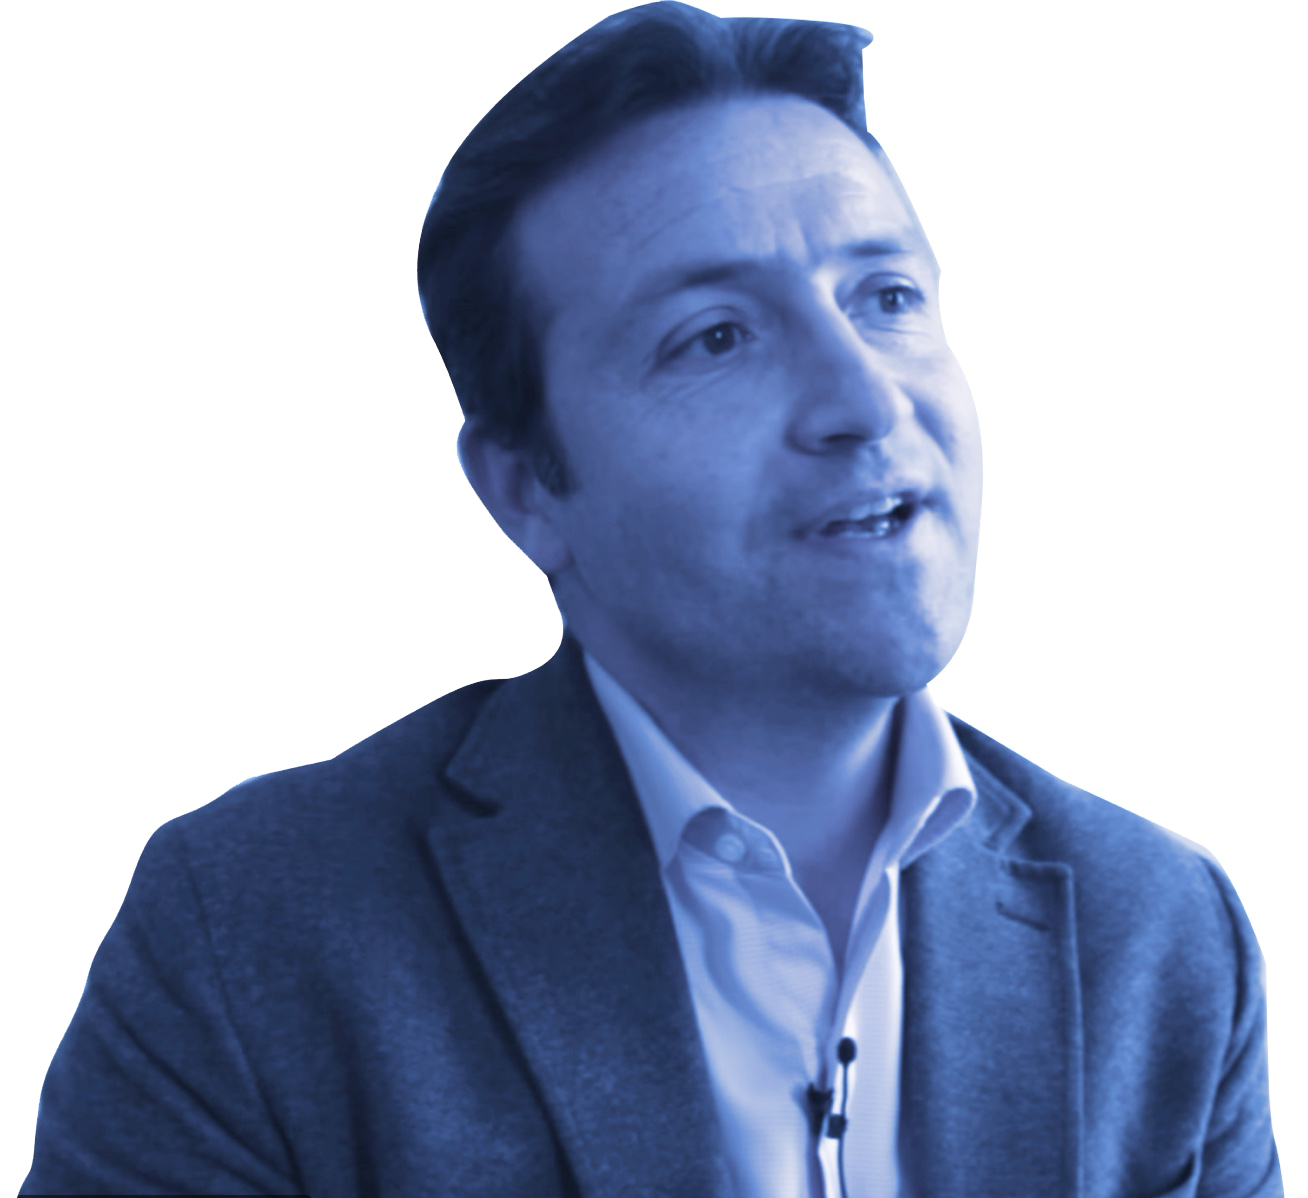
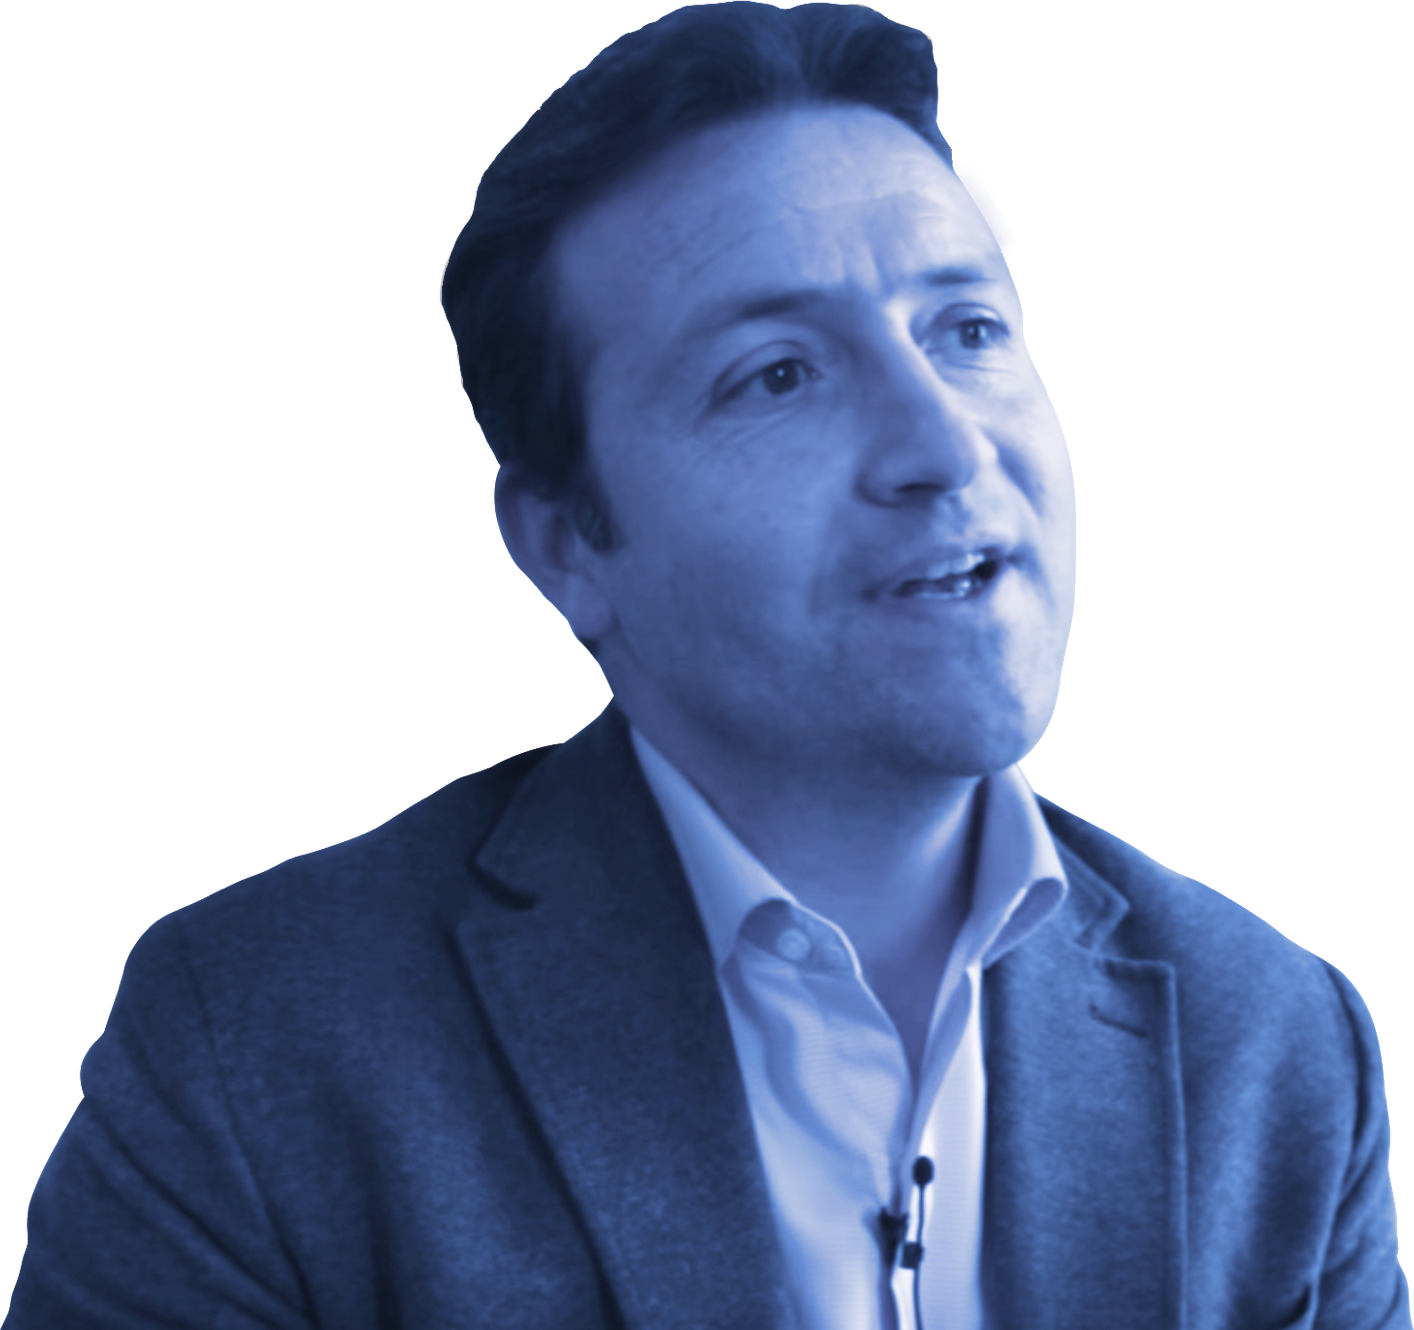
what we do responsive

diff --git a/resources/stylesheets/style.css b/resources/stylesheets/style.css
@@ -4290,6 +4290,8 @@ li + li {
   border-radius: 50%;
   -webkit-flex-shrink: 0;
   flex-shrink: 0;
+  background-color: rgba(0, 123, 255, 0.5);
+  background-blend-mode: luminosity;
   overflow: hidden;
   position: relative;
   width: 200px;
@@ -4308,37 +4310,25 @@ li + li {
     display: none;
   }
 }
-/* line 33, ../sass/partials/_testimonials.scss */
-.testimonial__image:before {
-  content: "";
-  position: absolute;
-  top: 0;
-  right: 0;
-  bottom: 0;
-  left: 0;
-  width: 100%;
-  height: 100%;
-  background-color: rgba(0, 123, 255, 0.5);
-}
-/* line 39, ../sass/partials/_testimonials.scss */
+/* line 37, ../sass/partials/_testimonials.scss */
 .testimonial__content {
   text-align: left;
   margin-left: 80px;
   position: relative;
 }
 @media (max-width: 1024px) {
-  /* line 39, ../sass/partials/_testimonials.scss */
+  /* line 37, ../sass/partials/_testimonials.scss */
   .testimonial__content {
     margin-left: 40px;
   }
 }
 @media (max-width: 768px) {
-  /* line 39, ../sass/partials/_testimonials.scss */
+  /* line 37, ../sass/partials/_testimonials.scss */
   .testimonial__content {
     margin-left: 0;
   }
 }
-/* line 51, ../sass/partials/_testimonials.scss */
+/* line 49, ../sass/partials/_testimonials.scss */
 .testimonial__mark {
   position: absolute;
   z-index: -1;
@@ -4346,11 +4336,11 @@ li + li {
   left: -40px;
   width: 200px !important;
 }
-/* line 59, ../sass/partials/_testimonials.scss */
+/* line 57, ../sass/partials/_testimonials.scss */
 .testimonial__meta {
   margin-top: 10px;
 }
-/* line 63, ../sass/partials/_testimonials.scss */
+/* line 61, ../sass/partials/_testimonials.scss */
 .testimonial .owl-dots {
   padding-top: 60px;
 }
@@ -5390,29 +5380,48 @@ li + li {
   background-repeat: no-repeat;
   background-image: url(../images/home-portrait.png);
 }
-/* line 137, ../sass/pages/_index.scss */
+@media (max-width: 768px) {
+  /* line 131, ../sass/pages/_index.scss */
+  #who-we-help {
+    background-position: 50% bottom;
+    -webkit-background-size: 80%;
+    background-size: 80%;
+    background-repeat: no-repeat;
+  }
+}
+/* line 140, ../sass/pages/_index.scss */
 #who-we-help .section__title, #who-we-help .section__desc {
   width: 100%;
 }
 @media (max-width: 1300px) {
-  /* line 142, ../sass/pages/_index.scss */
+  /* line 145, ../sass/pages/_index.scss */
   #who-we-help .row {
     -webkit-flex-direction: column-reverse;
     flex-direction: column-reverse;
   }
 }
 @media (max-width: 1300px) {
-  /* line 148, ../sass/pages/_index.scss */
+  /* line 151, ../sass/pages/_index.scss */
   #who-we-help .video {
     margin-top: 35%;
   }
 }
+/* line 157, ../sass/pages/_index.scss */
+#who-we-help .js-button-modal {
+  margin-top: 50%;
+}
+@media (max-width: 1300px) {
+  /* line 157, ../sass/pages/_index.scss */
+  #who-we-help .js-button-modal {
+    margin-top: 0;
+  }
+}
 
-/* line 155, ../sass/pages/_index.scss */
+/* line 165, ../sass/pages/_index.scss */
 .why-us {
   text-align: left;
 }
-/* line 158, ../sass/pages/_index.scss */
+/* line 168, ../sass/pages/_index.scss */
 .why-us__item {
   display: -webkit-flex;
   display: flex;
@@ -5420,60 +5429,60 @@ li + li {
   align-items: center;
 }
 @media (max-width: 1300px) {
-  /* line 158, ../sass/pages/_index.scss */
+  /* line 168, ../sass/pages/_index.scss */
   .why-us__item {
     margin-top: 20px;
     margin-bottom: 20px;
   }
 }
 @media (max-width: 768px) {
-  /* line 167, ../sass/pages/_index.scss */
+  /* line 177, ../sass/pages/_index.scss */
   .why-us__image {
     display: none;
   }
 }
 
-/* line 174, ../sass/pages/_index.scss */
+/* line 184, ../sass/pages/_index.scss */
 #featured-in {
   border-top: 5px solid #f8f8f8;
 }
-/* line 178, ../sass/pages/_index.scss */
+/* line 188, ../sass/pages/_index.scss */
 #featured-in .section__header {
   margin-bottom: 0;
 }
 
-/* line 183, ../sass/pages/_index.scss */
+/* line 193, ../sass/pages/_index.scss */
 .logo-media {
   margin-left: -40px;
   margin-right: -40px;
 }
 @media (max-width: 1024px) {
-  /* line 183, ../sass/pages/_index.scss */
+  /* line 193, ../sass/pages/_index.scss */
   .logo-media {
     margin-left: -20px;
     margin-right: -20px;
   }
 }
-/* line 192, ../sass/pages/_index.scss */
+/* line 202, ../sass/pages/_index.scss */
 .logo-media__item {
   position: relative;
   width: 25%;
   padding: 20px 40px;
 }
 @media (max-width: 1024px) {
-  /* line 192, ../sass/pages/_index.scss */
+  /* line 202, ../sass/pages/_index.scss */
   .logo-media__item {
     padding-left: 20px;
     padding-right: 20px;
   }
 }
 @media (max-width: 768px) {
-  /* line 192, ../sass/pages/_index.scss */
+  /* line 202, ../sass/pages/_index.scss */
   .logo-media__item {
     width: 50%;
   }
 }
-/* line 206, ../sass/pages/_index.scss */
+/* line 216, ../sass/pages/_index.scss */
 .logo-media__item + .logo-media__item:before {
   content: "";
   position: absolute;
@@ -5489,12 +5498,12 @@ li + li {
   background-color: #f8f8f8;
 }
 @media (max-width: 768px) {
-  /* line 206, ../sass/pages/_index.scss */
+  /* line 216, ../sass/pages/_index.scss */
   .logo-media__item + .logo-media__item:before {
     display: none;
   }
 }
-/* line 217, ../sass/pages/_index.scss */
+/* line 227, ../sass/pages/_index.scss */
 .logo-media__image {
   width: 100%;
 }
